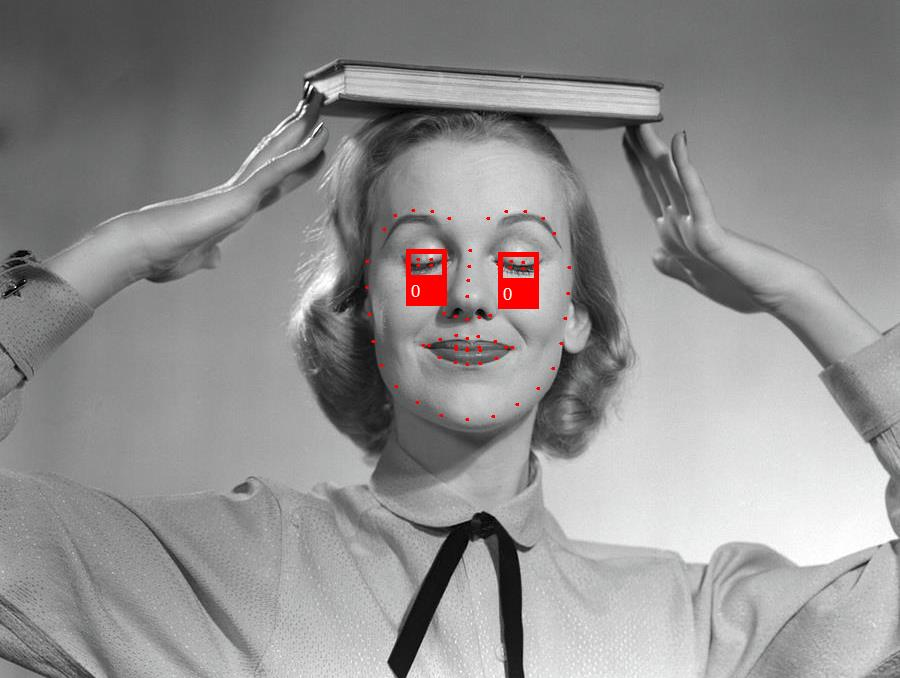
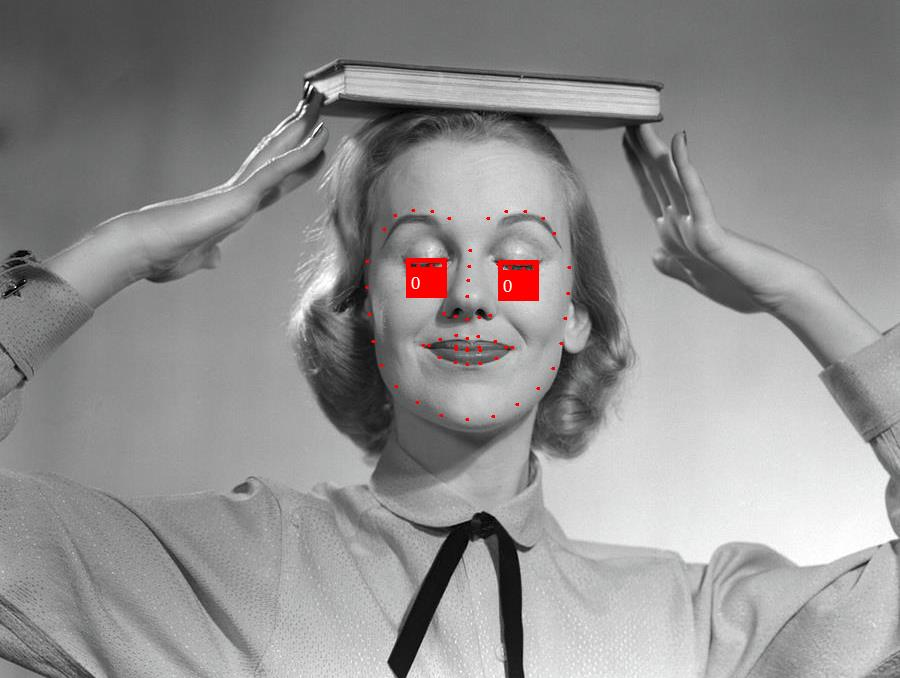
Fixtures for eye blink classifier and add new tools

Changed region(s): [[0.4356, 0.3407, 0.4978, 0.4646], [0.5289, 0.3717, 0.6222, 0.4646]]

diff --git a/netstandard/FaceONNX.Gpu/face/utils/Rectangles.cs b/netstandard/FaceONNX.Gpu/face/utils/Rectangles.cs
@@ -8,7 +8,97 @@ namespace FaceONNX
     /// </summary>
     public static class Rectangles
     {
-        #region Rectangles
+        #region Operators
+
+        /// <summary>
+        /// Returns processed rectangle.
+        /// </summary>
+        /// <param name="rectangle">Rectangle</param>
+        /// <param name="point">Point</param>
+        /// <returns>Rectangle</returns>
+        public static Rectangle Add(this Rectangle rectangle, Point point)
+        {
+            return new Rectangle
+            {
+                X = rectangle.X + point.X,
+                Y = rectangle.Y + point.Y,
+                Width = rectangle.Width,
+                Height = rectangle.Height
+            };
+        }
+
+        /// <summary>
+        /// Returns processed rectangle.
+        /// </summary>
+        /// <param name="rectangle">Rectangle</param>
+        /// <param name="point">Point</param>
+        /// <returns>Rectangle</returns>
+        public static Rectangle Sub(this Rectangle rectangle, Point point)
+        {
+            return new Rectangle
+            {
+                X = rectangle.X - point.X,
+                Y = rectangle.Y - point.Y,
+                Width = rectangle.Width,
+                Height = rectangle.Height
+            };
+        }
+
+        /// <summary>
+        /// Returns processed rectangles.
+        /// </summary>
+        /// <param name="rectangles">Rectangles</param>
+        /// <param name="point">Point</param>
+        /// <returns>Rectangles</returns>
+        public static Rectangle[] Add(this Rectangle[] rectangles, Point point)
+        {
+            var count = rectangles.Length;
+            var output = new Rectangle[count];
+            
+            for (int i = 0; i < count; i++)
+            {
+                output[i] = rectangles[i].Add(point);
+            }
+
+            return output;
+        }
+
+        /// <summary>
+        /// Returns processed rectangles.
+        /// </summary>
+        /// <param name="rectangles">Rectangles</param>
+        /// <param name="point">Point</param>
+        /// <returns>Rectangles</returns>
+        public static Rectangle[] Sub(this Rectangle[] rectangles, Point point)
+        {
+            var count = rectangles.Length;
+            var output = new Rectangle[count];
+
+            for (int i = 0; i < count; i++)
+            {
+                output[i] = rectangles[i].Sub(point);
+            }
+
+            return output;
+        }
+
+        #endregion
+
+        #region Special operators
+
+        /// <summary>
+        /// Returns point from rectangle.
+        /// </summary>
+        /// <param name="rectangle">Rectangle</param>
+        /// <returns>Point</returns>
+        public static Point GetPoint(this Rectangle rectangle)
+        {
+            return new Point
+            {
+                X = rectangle.X,
+                Y = rectangle.Y
+            };
+        }
 
         /// <summary>
         /// Returns size area.

diff --git a/netstandard/FaceONNX.Gpu/face/utils/Landmarks.cs b/netstandard/FaceONNX.Gpu/face/utils/Landmarks.cs
@@ -61,6 +61,37 @@ namespace FaceONNX
         #region Special operators
 
         /// <summary>
+        /// Returns rectangle from points.
+        /// </summary>
+        /// <param name="points">Points</param>
+        /// <returns>Rectangle</returns>
+        public static Rectangle GetRectangle(this Point[] points)
+        {
+            int length = points.Length;
+            int xmin = int.MaxValue;
+            int ymin = int.MaxValue;
+            int xmax = int.MinValue;
+            int ymax = int.MinValue;
+
+            for (int i = 0; i < length; i++)
+            {
+                int x = points[i].X;
+                int y = points[i].Y;
+
+                if (x < xmin)
+                    xmin = x;
+                if (y < ymin)
+                    ymin = y;
+                if (x > xmax)
+                    xmax = x;
+                if (y > ymax)
+                    ymax = y;
+            }
+
+            return new Rectangle(xmin, ymin, xmax - xmin, ymax - ymin);
+        }
+
+        /// <summary>
         /// Return angle of the three points.
         /// </summary>
         /// <param name="left">Left point</param>
@@ -116,37 +147,6 @@ namespace FaceONNX
         #endregion
 
         #region Face operators
-
-        /// <summary>
-        /// Returns rectangle from face points.
-        /// </summary>
-        /// <param name="points">Points</param>
-        /// <returns>Rectangle</returns>
-        public static Rectangle GetRectangle(this Point[] points)
-        {
-            int length = points.Length;
-            int xmin = int.MaxValue;
-            int ymin = int.MaxValue;
-            int xmax = int.MinValue;
-            int ymax = int.MinValue;
-
-            for (int i = 0; i < length; i++)
-            {
-                int x = points[i].X;
-                int y = points[i].Y;
-
-                if (x < xmin)
-                    xmin = x;
-                if (y < ymin)
-                    ymin = y;
-                if (x > xmax)
-                    xmax = x;
-                if (y > ymax)
-                    ymax = y;
-            }
-
-            return new Rectangle(xmin, ymin, xmax - xmin, ymax - ymin);
-        }
 
         /// <summary>
         /// Returns right eye points.

diff --git a/netstandard/FaceONNX.Gpu/face/classes/EyeBlinkClassifier.cs b/netstandard/FaceONNX.Gpu/face/classes/EyeBlinkClassifier.cs
@@ -79,37 +79,35 @@ namespace FaceONNX
 			return confidences;
 		}
 
-		#endregion
+        #endregion
 
-		#region Static
+        #region Static
 
 		/// <summary>
-		/// Returns left and right eye rectangles from facelandmarks.
+		/// Returns left and right eye rectangles from face landmarks.
 		/// </summary>
 		/// <param name="points">Points</param>
 		/// <returns>Left and right eye rectangles</returns>
 		public static (Rectangle, Rectangle) GetEyesRectangles(Point[] points)
-		{
-			var factor_y = -0.3f;
+        {
+			var factor_y = 0.5f;
 
 			var left_eye_rect = points.GetLeftEye()
 				.GetRectangle()
-				.ToBox()
 				.Scale(0.0f, factor_y);
 
 			var right_eye_rect = points.GetRightEye()
 				.GetRectangle()
-				.ToBox()
 				.Scale(0.0f, factor_y);
 
 			return (left_eye_rect, right_eye_rect);
 		}
 
-		#endregion
+        #endregion
 
-		#region IDisposable
+        #region IDisposable
 
-		private bool _disposed;
+        private bool _disposed;
 
 		/// <inheritdoc/>
 		public void Dispose()

diff --git a/netstandard/FaceONNX/face/classes/EyeBlinkClassifier.cs b/netstandard/FaceONNX/face/classes/EyeBlinkClassifier.cs
@@ -84,22 +84,20 @@ namespace FaceONNX
         #region Static
 
 		/// <summary>
-		/// Returns left and right eye rectangles from facelandmarks.
+		/// Returns left and right eye rectangles from face landmarks.
 		/// </summary>
 		/// <param name="points">Points</param>
 		/// <returns>Left and right eye rectangles</returns>
 		public static (Rectangle, Rectangle) GetEyesRectangles(Point[] points)
         {
-			var factor_y = -0.3f;
+			var factor_y = 0.5f;
 
 			var left_eye_rect = points.GetLeftEye()
 				.GetRectangle()
-				.ToBox()
 				.Scale(0.0f, factor_y);
 
 			var right_eye_rect = points.GetRightEye()
 				.GetRectangle()
-				.ToBox()
 				.Scale(0.0f, factor_y);
 
 			return (left_eye_rect, right_eye_rect);

diff --git a/netstandard/Examples/EyeBlinkDetection/Program.cs b/netstandard/Examples/EyeBlinkDetection/Program.cs
@@ -50,8 +50,8 @@ namespace EyeBlinkDetection
                     var left_eye_rect = eyes.Item1;
                     var right_eye_rect = eyes.Item2;
 
-                    using var left_eye = BitmapTransform.Crop(aligned, left_eye_rect);
-                    using var right_eye = BitmapTransform.Crop(aligned, right_eye_rect);
+                    using var left_eye = BitmapTransform.Crop(cropped, left_eye_rect);
+                    using var right_eye = BitmapTransform.Crop(cropped, right_eye_rect);
 
                     var left_eye_value = eyeBlinkClassifier.Forward(left_eye);
                     var right_eye_value = eyeBlinkClassifier.Forward(right_eye);
